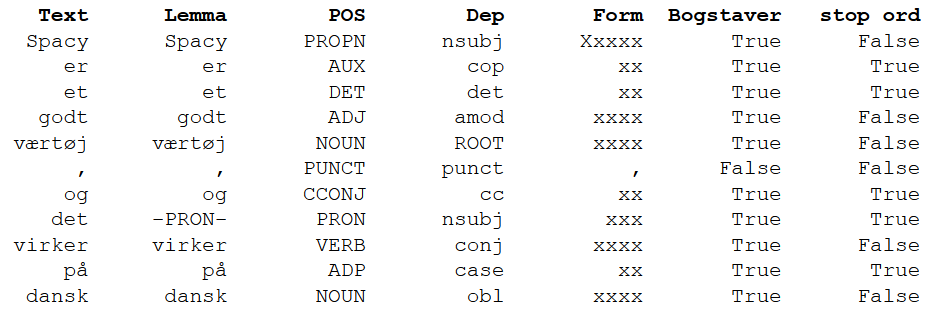
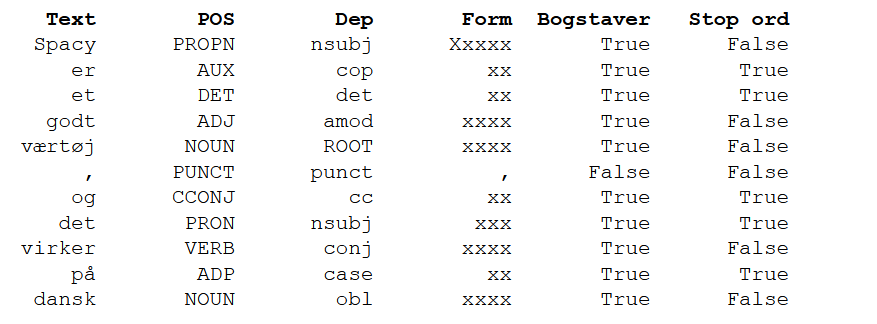
Minor fixs in docs
Update of readme with folder structure, fix on dead links #Fix 59, minor update af spacy.doc, and printing of model name in benchmark ner script

diff --git a/examples/benchmarks/ner_benchmarks.py b/examples/benchmarks/ner_benchmarks.py
@@ -53,7 +53,7 @@ def benchmark_polyglot_mdl():
         word_ent_tuples = list(ne_chunker.annotate(word_list))
 
         predictions.append([entity for word, entity in word_ent_tuples])
-
+    print('polyglot:')
     print("Made predictions on {} sentences and {} tokens in {}s".format(
         num_sentences, num_tokens, time.time() - start))
     assert len(predictions) == len(sentences_entities)
@@ -79,13 +79,13 @@ def benchmark_spacy_mdl():
                 ents.append(t.ent_iob_ + "-" + t.ent_type_)
 
         predictions.append(ents)
-
+    print('spaCy:')
     print("Made predictions on {} sentences and {} tokens in {}s".format(
         num_sentences, num_tokens, time.time() - start)
     )
 
     assert len(predictions) == num_sentences
-
+    
     print(classification_report(sentences_entities, remove_miscs(predictions),
                                 digits=4))
 
@@ -105,7 +105,7 @@ def benchmark_flair_mdl():
 
     tagger.predict(flair_sentences, verbose=True)
     predictions = [[tok.tags['ner'].value for tok in fs] for fs in flair_sentences]
-
+    print('Flair:')
     print("Made predictions on {} sentences and {} tokens in {}s".format(num_sentences, num_tokens, time.time() - start))
 
     assert len(predictions) == num_sentences
@@ -122,7 +122,7 @@ def benchmark_bert_mdl():
     for i, sentence in enumerate(sentences_tokens):
         _, pred_ents = bert.predict(sentence)
         predictions.append(pred_ents)
-
+    print('bert:')
     print("Made predictions on {} sentences and {} tokens in {}s".format(num_sentences, num_tokens, time.time() - start))
 
     assert len(predictions) == num_sentences

diff --git a/README.md b/README.md
@@ -37,8 +37,9 @@
   </h5>
 </div>
 DaNLP is a repository for Natural Language Processing resources for the Danish Language. 
-It is a collection  of available datasets and models for a variety of NLP tasks.
-It features code examples on how to use the datasets and models in popular NLP frameworks such as spaCy and Flair as well as Deep Learning frameworks such as PyTorch and TensorFlow. 
+It is a collection  of available datasets and models for a variety of NLP tasks. The aim is to make it easier and more applicable to practitioners in the industry to use Danish NLP and hence this project is licensed to allow commercial use. The project features code examples on how to use the datasets and models in popular NLP frameworks such as spaCy and Flair as well as Deep Learning frameworks such as PyTorch and TensorFlow. 
+
+If you are new to NLP or want to know more about the project in a broader perspective, you can start on our [microsite](https://danlp.alexandra.dk/).
 
 <br/>**Help us improve DaNLP**
 - :raising_hand: Have you tried the DaNLP package? Then we would love to chat with you about your experiences from a company perspective. It will take approx 20-30 minutes and there's no preparation. English/danish as you prefer. Please leave your details [here](https://forms.office.com/Pages/ResponsePage.aspx?id=zSPaS4dKm0GkfXZzEwsohKhC_ON5BmxBtRwkonVf21tUQUxDQ0oyTVAyU0tDUDVDMTM4SkU4SjJISi4u) and then we will reach out to arrange a call. We also welcome and appreciate any written feedback. Reach us at [danlp@alexandra.dk](mailto:danlp@alexandra.dk)
@@ -50,11 +51,9 @@ It features code examples on how to use the datasets and models in popular NLP f
 
   
 
-
 **Next up**
 
-- :traffic_light: An attempt to access fairness in sentiment models  through a synthetic test will be added as an example in a Jupyter notebook  
-
+- :hatching_chick: Example tutorials in Jupiter notebook and getting started guides is coming soon!
 - :paw_prints: Improving spaCy ner model using hard distil of Bert Ner
 
 
@@ -62,18 +61,18 @@ It features code examples on how to use the datasets and models in popular NLP f
 ## Get started
 
 To get started using DaNLP in your python project simply install the pip package. However installing the pip package 
-will not install all NLP libraries. If you want to try out the models in DaNLP you can use the Docker images
-that has all the NLP libraries installed.
+will not install all NLP libraries because we want you to have the freedom to limit the dependency on what you use.
 
 ### Install with pip
+
 To get started using DaNLP simply install the project with pip:
 
 ```bash
 pip install danlp 
 ```
 
-Note that the installation of DaNLP does not install other NLP libraries such as Gensim, Spacy or Flair.
-This allows the installation to be as minimal as possible and let the user choose to e.g. load word embeddings with either spaCy, flair or Gensim.  Therefore, depending on the function you need to use, you should install one or several of the following: `pip install flair`, `pip install spacy ` or/and `pip install gensim `.
+Note that the installation of DaNLP does not install other NLP libraries such as Gensim, Spacy, Flair or Transformers.
+This allows the installation to be as minimal as possible and let the user choose to e.g. load word embeddings with either spaCy, flair or Gensim.  Therefore, depending on the function you need to use, you should install one or several of the following: `pip install flair`, `pip install spacy ` or/and `pip install gensim `. You can check the `requirements.txt` file to see what version the packages has been tested with.
 
 ### Install from source
 
@@ -85,7 +84,13 @@ cd danlp
 pip install . 
 ```
 
-if you have clone it before use ``git pull`` to get newest version instead of clone.  
+To install the dependency used in the package with the tested versions:
+
+```python
+pip install -r requirements.txt
+```
+
+
 
 ### Install with Docker 
 To quickly get started with DaNLP and to try out the models you can use our Docker image.
@@ -96,12 +101,12 @@ docker run -it --rm alexandrainst/danlp ipython
 If you want to run a `<script.py>` in your current working directory you can run:
 ```bash
 docker run -it --rm -v "$PWD":/usr/src/app -w /usr/src/app alexandrainst/danlp python <script.py>
+                  
 ```
-You can also quickly get started with one of our [notebooks](/examples).
-                     
 
 
 ## NLP Models
+
 Natural Language Processing is an active area of research and it consists of many different tasks. 
 The DaNLP repository provides an overview of Danish models for some of the most common NLP tasks.
 
@@ -110,7 +115,9 @@ The repository is under development and this is the list of NLP tasks we have co
 -  [Part of speech](docs/models/pos.md)
 -  [Named Entity Recognition](docs/models/ner.md)
 -  [Sentiment Analysis](docs/models/sentiment_analysis.md)
+-  [Dependency parsing](https://github.com/alexandrainst/danlp/blob/master/docs/models/dependency.md)
 -  Coreference resolution
+-  Lemmatization
 
 If you are interested in Danish support for any specific NLP task you are welcome to get in contact with us.
 
@@ -124,6 +131,21 @@ The DaNLP package allows you to download and preprocess datasets. You can read a
 ## Examples
 You will find examples and tutorials [here](/examples) that shows how to use NLP in Danish. This project keeps a Danish written [blog](https://medium.com/danlp) on medium where we write about Danish NLP, and in time we will also provide some real cases of how NLP is applied in Danish companies.
 
+## Structure of the the repo
+
+To help you navigate we here provide you with a overview of the structure in the github:
+
+    .
+    ├── danlp		   # Source files
+    │	├── datasets   # Code to load dataset with different frameworks 
+    │	├── models     # Code to load models with different frameworks 
+    ├── docker         # Docker image
+    ├── docs	       # Documentation files over dataset and models
+    │   ├── imgs	   # Images used in documentation
+    │   ├── models     # Overview over avalible models with code snippet and benchmarkresults
+    ├── exampels	   # Exampels, tutorials and benchmark scripts 
+    │   ├── benchmarks # Scripts for reproducing bechmarksresults reported in docs
+    ├── tests   	   # Test for continous integration with travis  
 ## How do I contribute?
 
 If you want to contribute to the DaNLP repository and make it better, your help is very welcome. You can contribute to the project in many ways:

diff --git a/docs/datasets.md b/docs/datasets.md
@@ -43,7 +43,7 @@ conllu_format = ddt.load_as_conllu()
 
 The dataset can also be downloaded directly in CoNLL-U format.
 
-[Download DDT](https://danlp.s3.eu-central-1.amazonaws.com/datasets/ddt.zip) 
+[Download DDT](https://danlp.alexandra.dk/304bd159d5de/datasets/ddt.zip) 
 
 #### WikiANN
 The WikiANN dataset [(Pan et al. 2017)](https://aclweb.org/anthology/P17-1178) is a dataset with NER annotations 
@@ -71,7 +71,7 @@ It is constructed with frequently used Danish words.
 
 #### Twitter Sentiment
 
-The Twitter sentiment is a small manually annotated dataset by the Alexandra Institute. It contains tags in two sentiment dimension: analytic: ['subjective' , 'objective'] and polarity: ['positive', 'neutral', 'negative' ]. It is split in train and test part. Due to Twitters privacy policy, it is only allowed to display the "tweet ID" and not the actually text. This allows people to delete their tweets. Therefore, to download the actually tweet text one need a Twitter development account and to generate the sets of login keys. The then dataset can be loaded with the DaNLP package by setting the following environment variable for the keys:
+The Twitter sentiment is a small manually annotated dataset by the Alexandra Institute. It contains tags in two sentiment dimension: analytic: ['subjective' , 'objective'] and polarity: ['positive', 'neutral', 'negative' ]. It is split in train and test part. Due to Twitters privacy policy, it is only allowed to display the "tweet ID" and not the actually text. This allows people to delete their tweets. Therefore, to download the actually tweet text one need a Twitter development account and to generate the sets of login keys, read how to get started [here](https://python-twitter.readthedocs.io/en/latest/getting_started.html). The then dataset can be loaded with the DaNLP package by setting the following environment variable for the keys:
 
 ``` TWITTER_CONSUMER_KEY, TWITTER_CONSUMER_SECRET, TWITTER_ACCESS_TOKEN, TWITTER_ACCESS_SECRET```|
 
@@ -84,7 +84,7 @@ df_test, df_train = twitSent.load_with_pandas()
 
 The dataset can also be downloaded directly with the labels and tweet id:
 
-[Download TwitterSent](https://danlp.s3.eu-central-1.amazonaws.com/datasets/twitter.sentiment.zip) 
+[Download TwitterSent](https://danlp.alexandra.dk/304bd159d5de/datasets/twitter.sentiment.zip) 
 
 #### Europarl Sentiment1
 

diff --git a/docs/models/embeddings.md b/docs/models/embeddings.md
@@ -36,10 +36,7 @@ the next character in a sentence.
 
 To evaluate word embeddings it is common to do intrinsic evaluations to 
 directly test for syntactic or semantic relationships between words. The 
-[Danish Similarity Dataset](https://github.com/alexandrainst/danlp/blob/add-ner/docs/datasets.md#danish-similarity-dataset)
-and [WordSim-353](https://github.com/alexandrainst/danlp/blob/add-ner/docs/datasets.md#wordsim-353)
-contains word pairs annotated with a similarity score. Calculating the
-correlation between the word embedding similarity and the similarity score
+[Danish Similarity Dataset](https://github.com/alexandrainst/danlp/blob/master/docs/datasets.md#danish-similarity-dataset) and [WordSim-353](https://github.com/alexandrainst/danlp/blob/master/docs/datasets.md#wordsim-353) contains word pairs annotated with a similarity score. Calculating the correlation between the word embedding similarity and the similarity score
 gives and indication of how well the word embeddings captures relationships 
 between words.
 
@@ -117,7 +114,7 @@ The hyperparameter are set as follows: `hidden_size=1032`, `nlayers=1`, `sequenc
 `max_epochs=5`
 
 
-The trained Flair word embeddings has been used in training a Part of Speech tagger and Name Entity Recognition tagger with Flair, check it out in the docs for  [pos](docs/models/pos.md) and [ner](docs/models/ner.md) . 
+The trained Flair word embeddings has been used in training a Part of Speech tagger and Name Entity Recognition tagger with Flair, check it out in the docs for  [pos](https://github.com/alexandrainst/danlp/blob/master/docs/models/pos.md) and [ner](https://github.com/alexandrainst/danlp/blob/master/docs/models/ner.md) . 
 
 
 ## 🎓 References

diff --git a/docs/spacy.md b/docs/spacy.md
@@ -55,15 +55,15 @@ nlp = load_spacy_model()
 doc = nlp("Spacy er et godt værtøj,og det virker på dansk")
 
 # prepare some pretty printing
-lingvistisk_features=['Text','Lemma','POS', 'Dep', 'Form', 'Bogstaver', 'stop ord']
-head_format ="\033[1m{!s:>11}\033[0m" * (len(lingvistisk_features) )
-row_format ="{!s:>11}" * (len(lingvistisk_features) )
+features=['Text','POS', 'Dep', 'Form', 'Bogstaver', 'Stop ord']
+head_format ="\033[1m{!s:>11}\033[0m" * (len(features) )
+row_format ="{!s:>11}" * (len(features) )
 
-print(head_format.format(*lingvistisk_features))
+print(head_format.format(*features))
 # printing for each token in det docs the coresponding linguistic features
 for token in doc:
-    print(row_format.format(token.text, token.lemma_, token.pos_, token.dep_,
-            token.shape_, token.is_alpha, token.is_stop))
+    print(row_format.format(token.text, token.pos_, token.dep_,
+            token.shape_, token.is_alpha, token.is_stop,))
     
 ```
 
@@ -80,6 +80,29 @@ displacy.serve(doc, style='dep')
 
 
 ![](imgs/dep.PNG)
+
+Here is an example of using Named entity recognitions . You can read more about [NER](https://github.com/alexandrainst/danlp/blob/master/docs/models/ner.md#named-entity-recognition) in the specific doc. 
+
+```python
+doc = nlp('Jens Peter Hansen kommer fra Danmark og arbejder hos Alexandra Instituttet') 
+for tok in doc:
+    print("{} {}".format(tok,tok.ent_type_))
+```
+
+```python
+# output 
+Jens PER
+Peter PER
+Hansen PER
+kommer 
+fra 
+Danmark LOC
+og 
+arbejder 
+hos 
+Alexandra ORG
+Instituttet ORG
+```
 
 ## :hatching_chick: Start training you own text classification model
 
